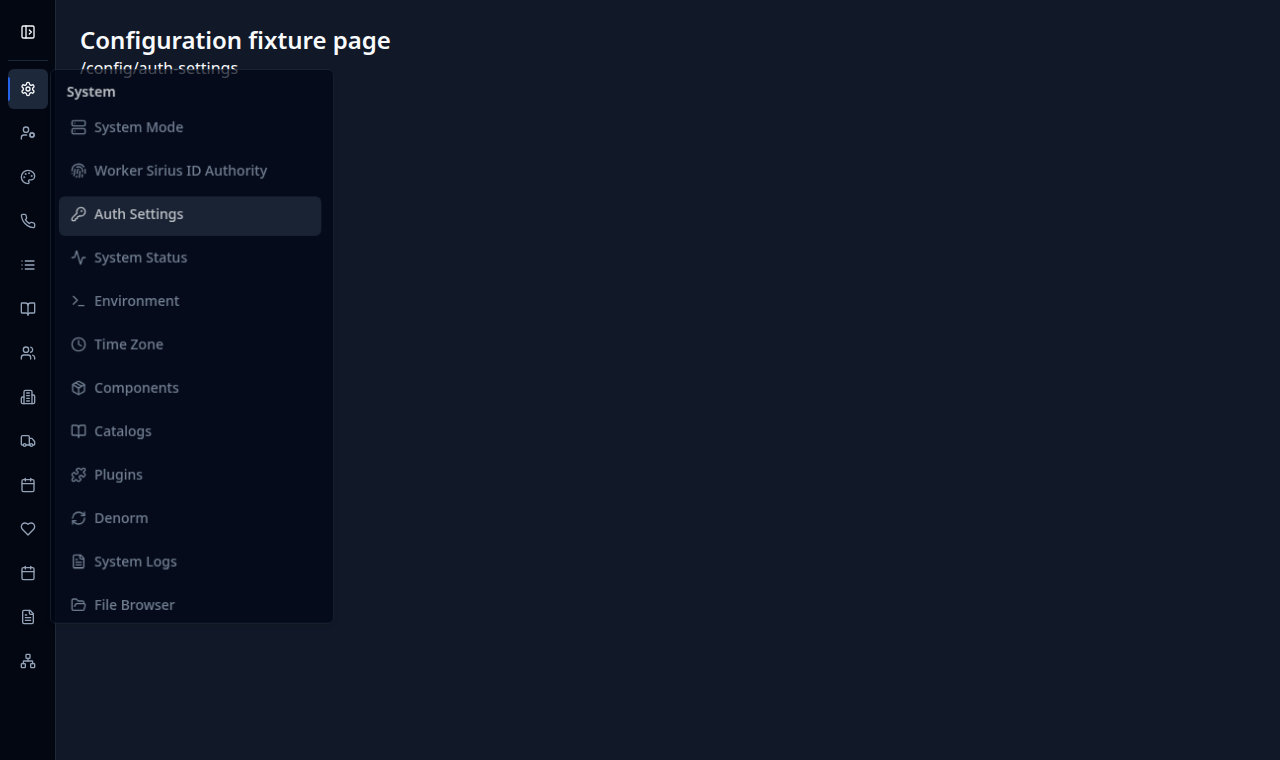
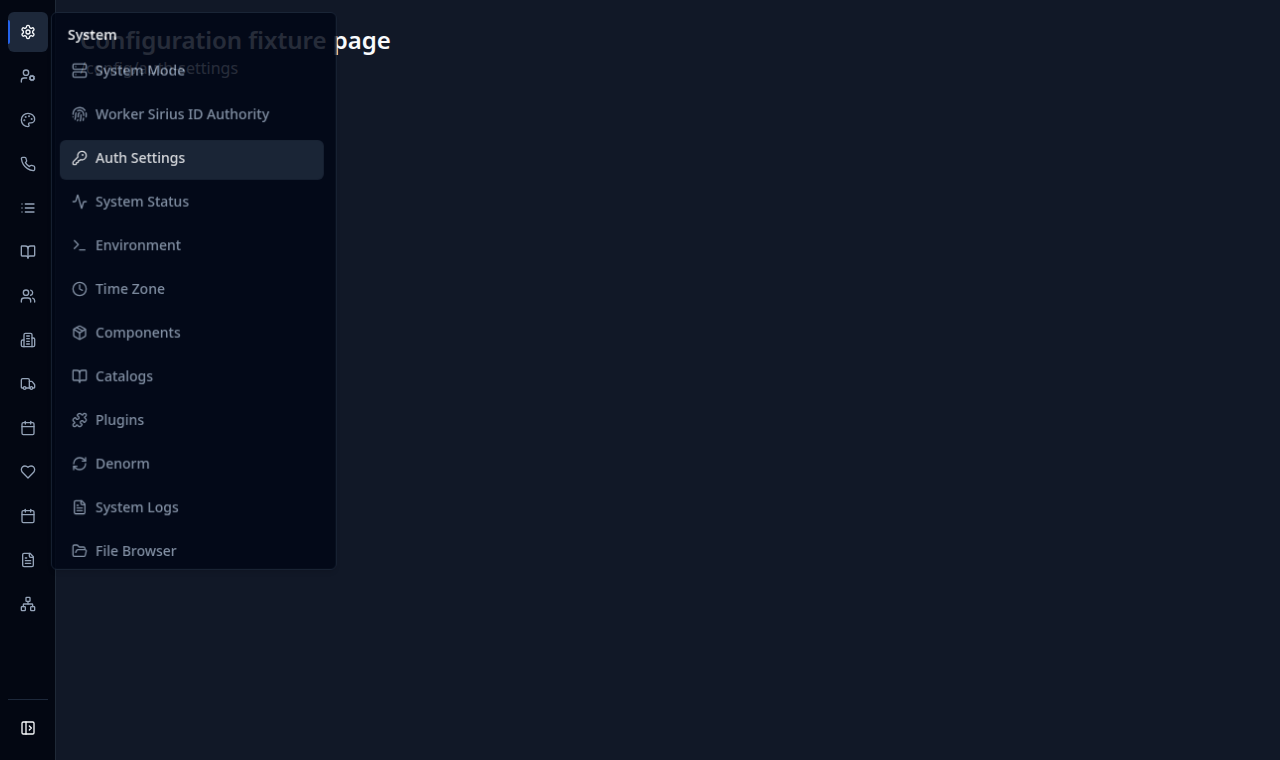
Restore configuration desktop toggles to persistent bottom footers
Replit-Task-Id: 50401d6f-cdaa-4545-8820-81346933334c
Replit-Merge-Attempt: MergeTask:50401d6f-cdaa-4545-8820-81346933334c:1:cf567a5c

diff --git a/client/src/components/layouts/ConfigurationLayout.tsx b/client/src/components/layouts/ConfigurationLayout.tsx
@@ -261,7 +261,10 @@ function ConfigurationLayoutContents({ children }: ConfigurationLayoutProps) {
         >
           {isDesktop && !desktopMenuOpen ? (
             <div className="flex h-full min-h-0 flex-col items-center gap-2 py-3">
-              <div className="shrink-0 border-b pb-2">
+              <nav data-testid="configuration-nav-scroll" className="flex min-h-0 w-full flex-1 flex-col items-center gap-1 overflow-y-auto [&>button]:shrink-0" aria-label="Configuration sections">
+                {accessibleSections.map(renderRailSection)}
+              </nav>
+              <div className="shrink-0 border-t pt-2">
                 <Tooltip>
                   <TooltipTrigger asChild>
                     <Button type="button" variant="ghost" size="icon" aria-label="Expand configuration menu" aria-controls="configuration-menu" aria-expanded={false} onClick={() => setDesktopMenuOpen(true)} data-testid="button-configuration-menu-desktop">
@@ -271,24 +274,21 @@ function ConfigurationLayoutContents({ children }: ConfigurationLayoutProps) {
                   <TooltipContent side="right">Expand menu</TooltipContent>
                 </Tooltip>
               </div>
-              <nav data-testid="configuration-nav-scroll" className="flex min-h-0 w-full flex-1 flex-col items-center gap-1 overflow-y-auto [&>button]:shrink-0" aria-label="Configuration sections">
-                {accessibleSections.map(renderRailSection)}
-              </nav>
             </div>
           ) : (
             <>
               <div className="flex shrink-0 justify-end px-3 pb-2 pt-3 md:hidden">
                 <Button type="button" variant="ghost" size="icon" className="md:hidden" aria-label="Close configuration menu" aria-controls="configuration-menu" aria-expanded={mobileMenuOpen} onClick={() => setMobileMenuOpen(false)}><X className="h-5 w-5" /></Button>
               </div>
-              <div className="hidden shrink-0 border-b p-2 md:block">
+              <nav id="configuration-nav-scroll" data-testid="configuration-nav-scroll" className="min-h-0 flex-1 space-y-1 overflow-y-auto px-3 pb-4" aria-label="Configuration sections">
+                {accessibleSections.map(renderSection)}
+              </nav>
+              <div className="hidden shrink-0 border-t p-2 md:block">
                 <Button type="button" variant="ghost" className="w-full justify-start text-muted-foreground" aria-label="Collapse configuration menu" aria-controls="configuration-menu" aria-expanded onClick={() => setDesktopMenuOpen(false)} data-testid="button-configuration-menu-desktop">
                   <PanelLeftClose className="mr-2 h-4 w-4" />
                   <span>Collapse menu</span>
                 </Button>
               </div>
-              <nav id="configuration-nav-scroll" data-testid="configuration-nav-scroll" className="min-h-0 flex-1 space-y-1 overflow-y-auto px-3 pb-4" aria-label="Configuration sections">
-                {accessibleSections.map(renderSection)}
-              </nav>
             </>
           )}
         </aside>
